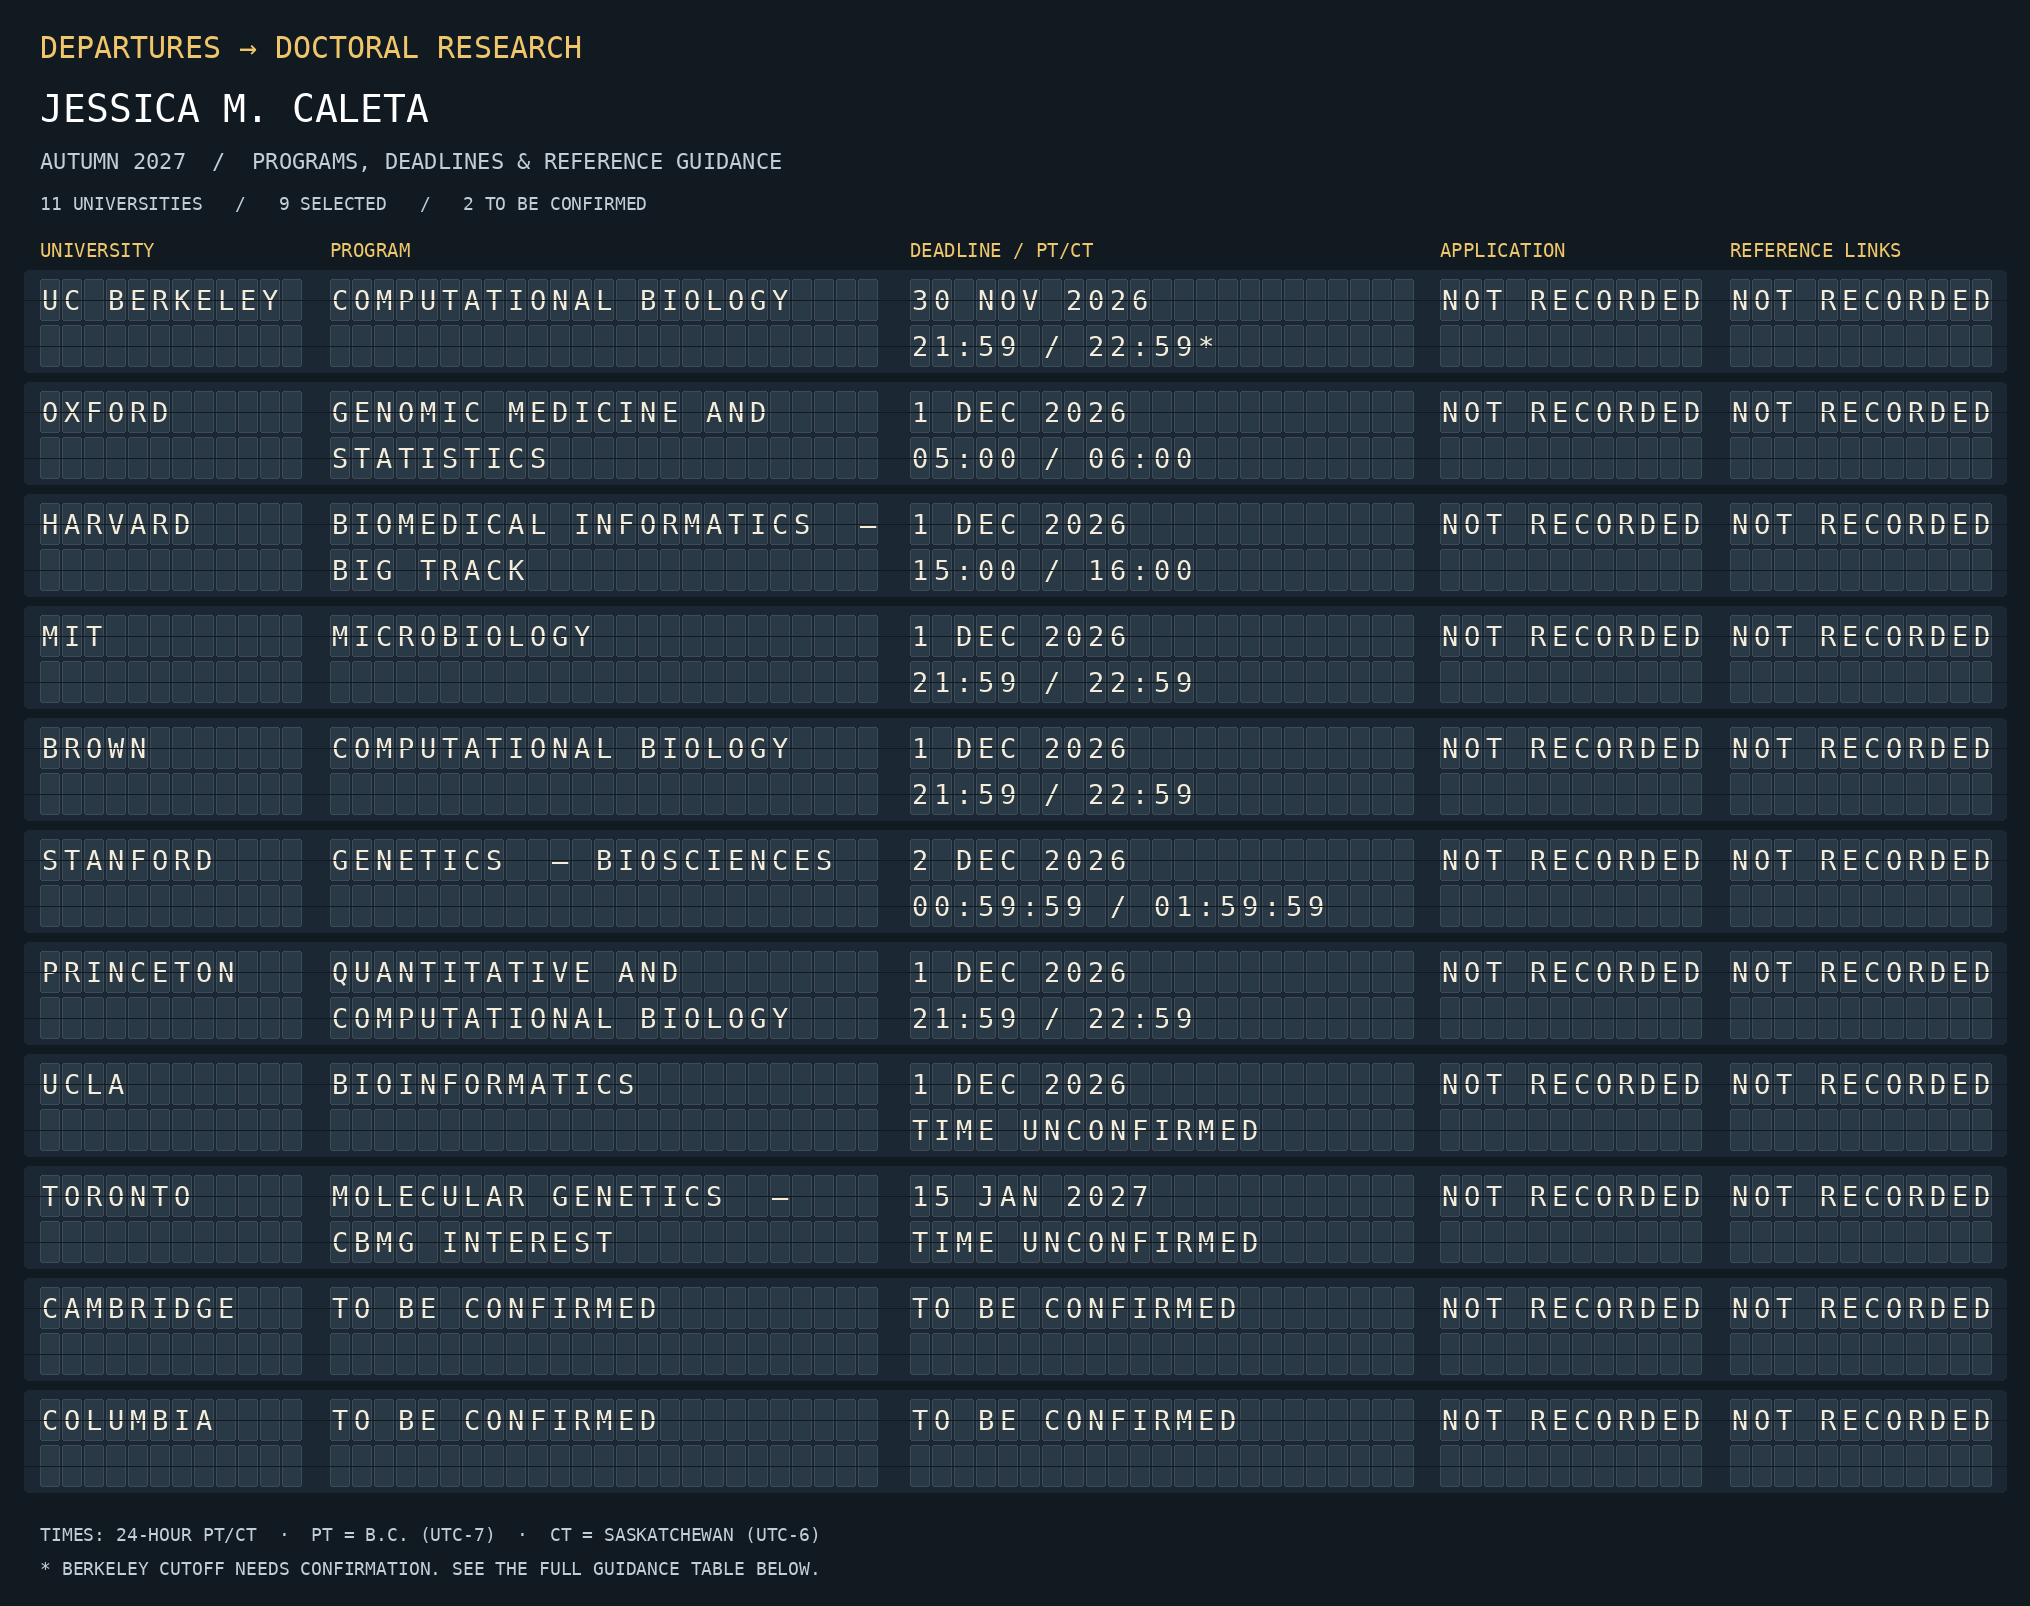
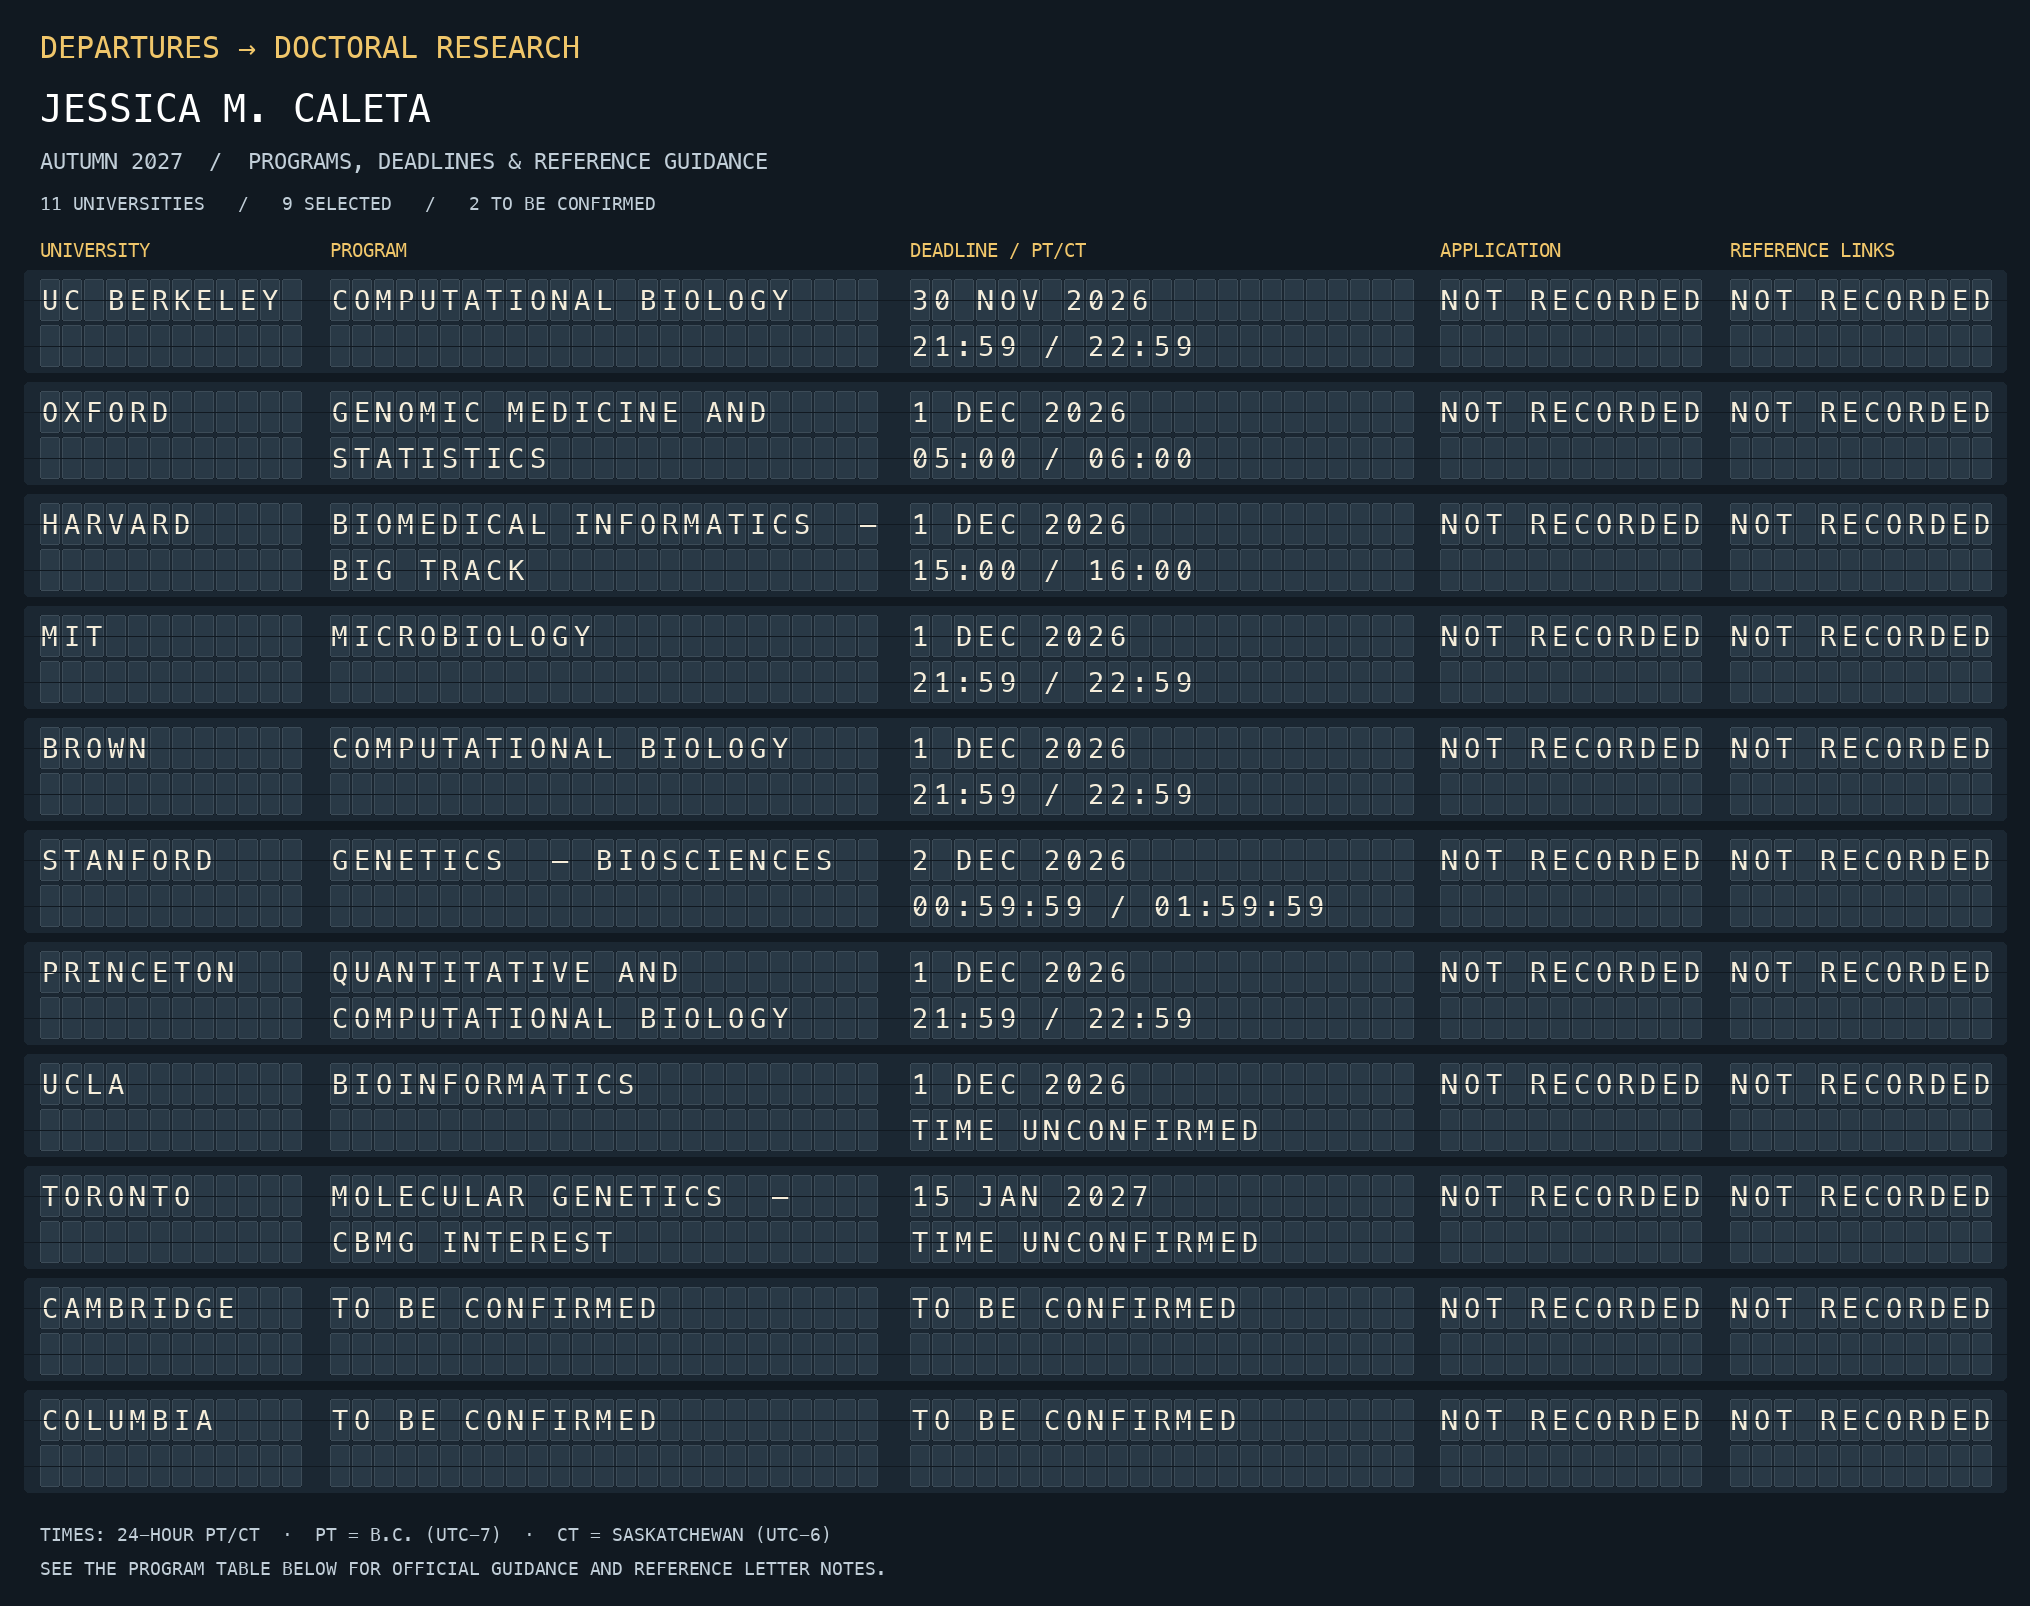
Use PM Berkeley cutoff and remove ambiguity notices

diff --git a/scripts/render_animation.py b/scripts/render_animation.py
@@ -89,7 +89,7 @@ for i,(uni,program,deadline,guidance,notes,status,links) in enumerate(rows):
                 if ch!=' ':slots.append((pos,ch))
         groups[(i,kind)]=slots
 label(40,H-82,'TIMES: 24-HOUR PT/CT  ·  PT = B.C. (UTC-7)  ·  CT = SASKATCHEWAN (UTC-6)',18)
-label(40,H-48,'* BERKELEY CUTOFF NEEDS CONFIRMATION. SEE THE FULL GUIDANCE TABLE BELOW.',18)
+label(40,H-48,'SEE THE PROGRAM TABLE BELOW FOR OFFICIAL GUIDANCE AND REFERENCE LETTER NOTES.',18)
 base.save(ROOT/'assets/application-board-still.png')
 palette=base.quantize(colors=128)
 def quant(im):return im.quantize(palette=palette,dither=Image.Dither.NONE)

diff --git a/Program_Info.md b/Program_Info.md
@@ -12,7 +12,7 @@ Jessica M. Caleta · Autumn 2027 entry · Updated 28 October 2026
 
 | University | Program | Deadline (PT / CT) | Official referee guidance | Notes | Application status | Reference links sent |
 | --- | --- | --- | --- | --- | --- | --- |
-| UC Berkeley | [Computational Biology PhD](https://ccb.berkeley.edu/academics/computational-biology-phd) | 30 Nov 2026<br>9:59 p.m.* PT / 10:59 p.m.* CT | [Letter requirements & deadline](https://ccb.berkeley.edu/node/175) | Late letter uploads are accepted, but review may proceed without them. Submit by the listed deadline. Evening cutoff interpretation needs portal confirmation.* | — | Not recorded |
+| UC Berkeley | [Computational Biology PhD](https://ccb.berkeley.edu/academics/computational-biology-phd) | 30 Nov 2026<br>9:59 p.m. PT / 10:59 p.m. CT | [Letter requirements & deadline](https://ccb.berkeley.edu/node/175) | Late letter uploads are accepted, but review may proceed without them. Submit by the listed deadline. | — | Not recorded |
 | Oxford | [DPhil in Genomic Medicine and Statistics](https://www.ox.ac.uk/admissions/graduate/courses/dphil-genomic-medicine-and-statistics) | 1 Dec 2026<br>5 a.m. PT / 6 a.m. CT | [Referee instructions](https://www.ox.ac.uk/admissions/graduate/application-guide/references/information-for-referees) · [Program deadline](https://www.ox.ac.uk/admissions/graduate/courses/dphil-genomic-medicine-and-statistics) | — | — | Not recorded |
 | Harvard | [Biomedical Informatics PhD — BIG track](https://bmiphd.hms.harvard.edu/welcome-big) | 1 Dec 2026<br>3 p.m. PT / 4 p.m. CT | [Recommendation instructions](https://gsas.harvard.edu/apply/applying-degree-programs/letters-recommendation) · [BIG deadline](https://bmiphd.hms.harvard.edu/apply) | — | — | Not recorded |
 | MIT | [Microbiology PhD](https://oge.mit.edu/programs/microbiology/) | 1 Dec 2026<br>9:59 p.m. PT / 10:59 p.m. CT | [Letter requirements](https://microbiology.mit.edu/graduate-program/how-to-apply/) · [Deadline](https://oge.mit.edu/programs/microbiology/) | Annual published deadline. Confirm the 2027-entry cutoff in the portal. | — | Not recorded |
@@ -23,8 +23,6 @@ Jessica M. Caleta · Autumn 2027 entry · Updated 28 October 2026
 | Toronto | [Molecular Genetics PhD — CBMG interest](https://www.sgs.utoronto.ca/programs/molecular-genetics/) | 15 Jan 2027 — time not published/verified | [Reference requirements](https://moleculargenetics.utoronto.ca/grad-application-procedures) · [Deadline](https://moleculargenetics.utoronto.ca/grad-deadlines) | Canadian citizen/permanent resident deadline. Confirm Molecular Genetics/CBMG entry route and referee eligibility. | — | Not recorded |
 | Cambridge | TBD | TBD — depends on program | [Referee guidance](https://www.postgraduate.study.cam.ac.uk/apply/how/academic-referees) · [Reference requirements](https://www.postgraduate.study.cam.ac.uk/apply/how/references) | Program selection pending. | — | Not recorded |
 | Columbia | TBD | TBD — depends on program | [GSAS recommendation FAQ](https://www.gsas.columbia.edu/content/frequently-asked-questions) | General GSAS guidance only. Confirm the relevant graduate school and program-specific instructions once selected. | — | Not recorded |
-
-*Berkeley publishes “8:59 PST / 11:59 EST” without a.m./p.m. The displayed local conversions assume an evening cutoff. Confirm in the application portal.
 
 **Submitting letters:** Each university sends an individual submission link to each registered referee. Use that emailed link to upload the letter. The guidance links above are public instructions, not personal upload links.
 

diff --git a/README.md b/README.md
@@ -28,7 +28,7 @@ Jessica M. Caleta · Autumn 2027 entry · Updated 28 October 2026
 
 | University / program | Deadline | Progress | Referee guidance |
 | --- | --- | --- | --- |
-| **UC Berkeley**<br>[Computational Biology PhD](https://ccb.berkeley.edu/academics/computational-biology-phd) | 30 Nov 2026<br>9:59 p.m.* PT<br>10:59 p.m.* CT | **Application:** Not recorded<br>**Links:** Not recorded | [Instructions](https://ccb.berkeley.edu/node/175)<br>[Notes & sources](#uc-berkeley-notes) |
+| **UC Berkeley**<br>[Computational Biology PhD](https://ccb.berkeley.edu/academics/computational-biology-phd) | 30 Nov 2026<br>9:59 p.m. PT<br>10:59 p.m. CT | **Application:** Not recorded<br>**Links:** Not recorded | [Instructions](https://ccb.berkeley.edu/node/175)<br>[Notes & sources](#uc-berkeley-notes) |
 | **Oxford**<br>[DPhil in Genomic Medicine and Statistics](https://www.ox.ac.uk/admissions/graduate/courses/dphil-genomic-medicine-and-statistics) | 1 Dec 2026<br>5 a.m. PT<br>6 a.m. CT | **Application:** Not recorded<br>**Links:** Not recorded | [Instructions](https://www.ox.ac.uk/admissions/graduate/application-guide/references/information-for-referees)<br>[Notes & sources](#oxford-notes) |
 | **Harvard**<br>[Biomedical Informatics PhD — BIG track](https://bmiphd.hms.harvard.edu/welcome-big) | 1 Dec 2026<br>3 p.m. PT<br>4 p.m. CT | **Application:** Not recorded<br>**Links:** Not recorded | [Instructions](https://gsas.harvard.edu/apply/applying-degree-programs/letters-recommendation)<br>[Notes & sources](#harvard-notes) |
 | **MIT**<br>[Microbiology PhD](https://oge.mit.edu/programs/microbiology/) | 1 Dec 2026<br>9:59 p.m. PT<br>10:59 p.m. CT | **Application:** Not recorded<br>**Links:** Not recorded | [Instructions](https://microbiology.mit.edu/graduate-program/how-to-apply/)<br>[Notes & sources](#mit-notes) |
@@ -41,8 +41,6 @@ Jessica M. Caleta · Autumn 2027 entry · Updated 28 October 2026
 | **Columbia**<br>TBD | TBD — depends on program | **Application:** Not recorded<br>**Links:** Not recorded | [Instructions](https://www.gsas.columbia.edu/content/frequently-asked-questions)<br>[Notes & sources](#columbia-notes) |
 
 
-*Berkeley publishes “8:59 PST / 11:59 EST” without a.m./p.m. The displayed local conversions assume an evening cutoff. Confirm in the application portal.
-
 **Submitting letters:** Each university sends an individual submission link to each registered referee. Use that emailed link to upload the letter. The guidance links above are public instructions, not personal upload links.
 
 Cambridge and Columbia are included for planning only until their programs are finalized. This table is the source of truth for programs, deadlines, and application status. Jessica will update it centrally as applications progress.
@@ -51,7 +49,7 @@ Cambridge and Columbia are included for planning only until their programs are f
 
 ### UC Berkeley notes
 
-Late letter uploads are accepted, but review may proceed without them. Submit by the listed deadline. Evening cutoff interpretation needs portal confirmation.*
+Late letter uploads are accepted, but review may proceed without them. Submit by the listed deadline.
 
 
 
